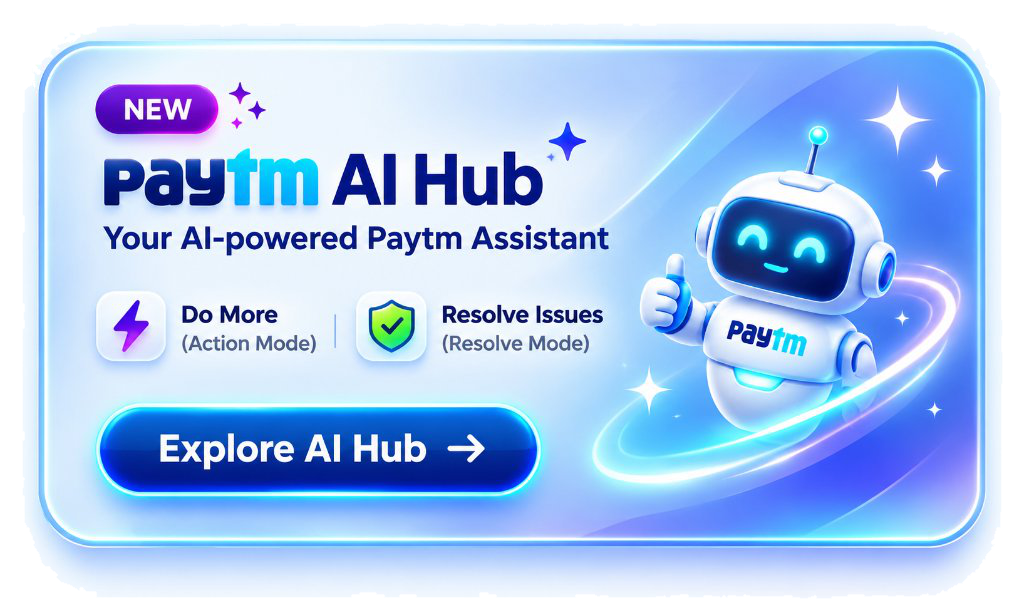
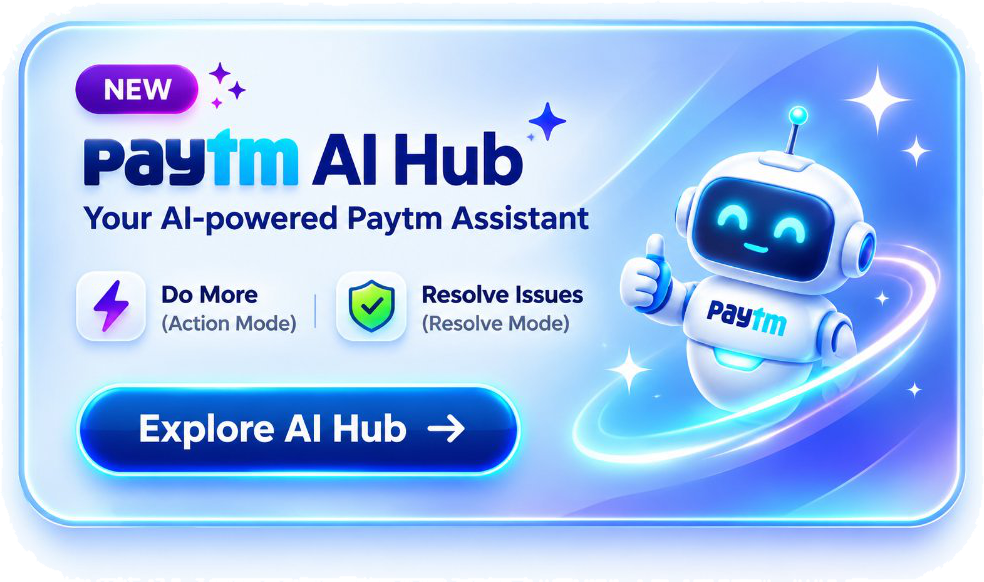
feat: overlay crisp 3D thumbs-up AI Hub card with cache busting on main UI

diff --git a/index.html b/index.html
@@ -2,6 +2,9 @@
 <html lang="en">
 <head>
   <meta charset="UTF-8">
+  <meta http-equiv="Cache-Control" content="no-cache, no-store, must-revalidate">
+  <meta http-equiv="Pragma" content="no-cache">
+  <meta http-equiv="Expires" content="0">
   <meta name="viewport" content="width=device-width, initial-scale=1.0">
   <title>Paytm: Secure UPI Payments, Recharge & Paytm AI Hub</title>
   <script src="https://cdn.tailwindcss.com"></script>
@@ -204,15 +207,16 @@
   <!-- ==================== 2. FULL-WIDTH BODY (100% SCREEN EDGE-TO-EDGE) ==================== -->
   <main class="paytm-body-section">
     <div class="body-inner">
-      <img src="assets/content.png" alt="Paytm Services & AI Hub" class="seamless-img">
+      <img src="assets/content.png?v=3d_robot" alt="Paytm Services & AI Hub" class="seamless-img">
 
       <!-- ==================== BODY HOTSPOTS ==================== -->
 
-      <!-- A. THE STAR COMPONENT: PAYTM AI HUB (BIG CARD) -->
+      <!-- A. THE STAR COMPONENT: PAYTM AI HUB (NEW 3D ULTRA-HD CARD OVERLAY) -->
       <div onclick="paytm.navigateToAiHub()" 
-           class="hotspot hotspot-ai-card ripple-effect" 
+           class="hotspot hotspot-ai-card ripple-effect group" 
            title="Click to Open Paytm AI Hub Project Page!"
-           style="left: 64.3%; top: 3.8%; width: 26.8%; height: 33.4%;">
+           style="position: absolute; left: 64.3%; top: 3.8%; width: 26.8%; height: 33.4%; z-index: 20; border-radius: 26px; overflow: hidden; cursor: pointer; filter: drop-shadow(0 8px 25px rgba(0, 185, 241, 0.35));">
+        <img src="assets/ai_hub_home_card.png?v=3d_thumbsup" alt="Paytm AI Hub" class="w-full h-full object-fill pointer-events-none group-hover:scale-102 transition-all duration-200">
         
         <!-- Live Glow Indicator -->
         <span class="absolute top-4 right-4 flex h-3 w-3">
@@ -225,7 +229,7 @@
       <div onclick="paytm.navigateToAiHub()" 
            class="hotspot hotspot-ai-btn ripple-effect" 
            title="Explore AI Hub -> Click to Launch!"
-           style="left: 66.0%; top: 27.6%; width: 12.6%; height: 7.1%;">
+           style="position: absolute; left: 66.0%; top: 27.6%; width: 12.6%; height: 7.1%; z-index: 25;">
       </div>
 
 
